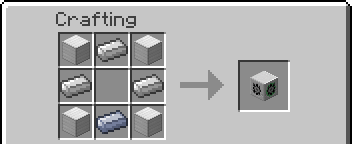
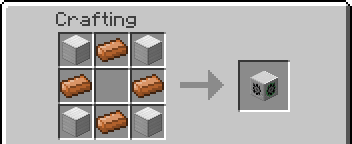
Bronze is better for clockwork than pig-iron. Gearboxes now take bronze.

diff --git a/src/main/java/com/elytradev/thermionics/Thermionics.java b/src/main/java/com/elytradev/thermionics/Thermionics.java
@@ -297,7 +297,7 @@ public class Thermionics {
 				's', "ingotSilver"));
 		
 		GameRegistry.addRecipe(new ShapedOreRecipe(new ItemStack(ThermionicsBlocks.GEARBOX),
-				"IiI", "i i", "IsI", 'I', "blockIron", 'i', "ingotIron", 's', "ingotSilver"));
+				"IbI", "b b", "IbI", 'I', "blockIron", 'b', "ingotBronze"));
 		
 		GameRegistry.addRecipe(new ShapedOreRecipe(new ItemStack(ThermionicsBlocks.HAMMER_MILL),
 				"IiI", "ifi", "IsI", 'I', "blockIron", 'i', "ingotIron", 's', "ingotSilver", 'f', new ItemStack(Items.FLINT)));
